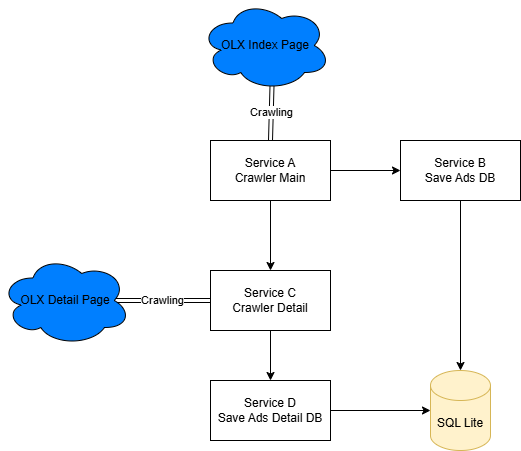
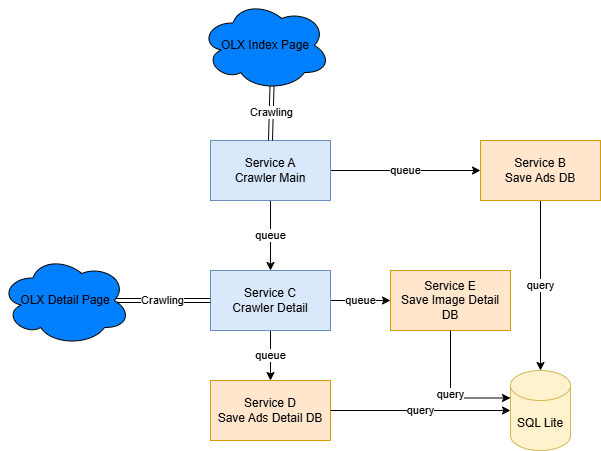
update README to include Save Image Advertisement Detail Service and remove unused app_new.py

diff --git a/README.md b/README.md
@@ -12,6 +12,8 @@ Service C: Detail Crawler Service, acts as a crawler, publisher, and consumer fr
 
 Service D: Save Advertisement Detail Service, acts as a database storage and consumer from Service C
 
+Service E: Save Image Advertisement Detail Service, acts as a database storage and consumer from Service C
+
 Details:
 
 Service A (publisher) will crawl the OLX index, get brand, series, and price information. Then each successfully retrieved car will publish 2 messages. The first message sends car advertisement data to Service B. The second message sends the car advertisement detail page link to Service C.
@@ -21,6 +23,8 @@ Service B (consumer) will consume messages from Service A, then save the data to
 Service C (publisher & consumer) will consume messages from Service A, then crawl the car advertisement detail page, and send the crawling results to Service D.
 
 Service D (consumer) will consume messages from Service C, then save the data to the database.
+
+Service E (consumer) will consume message from Service C, then save the image url to the database
 
 ![Project Workflow](diagram.png)
 
